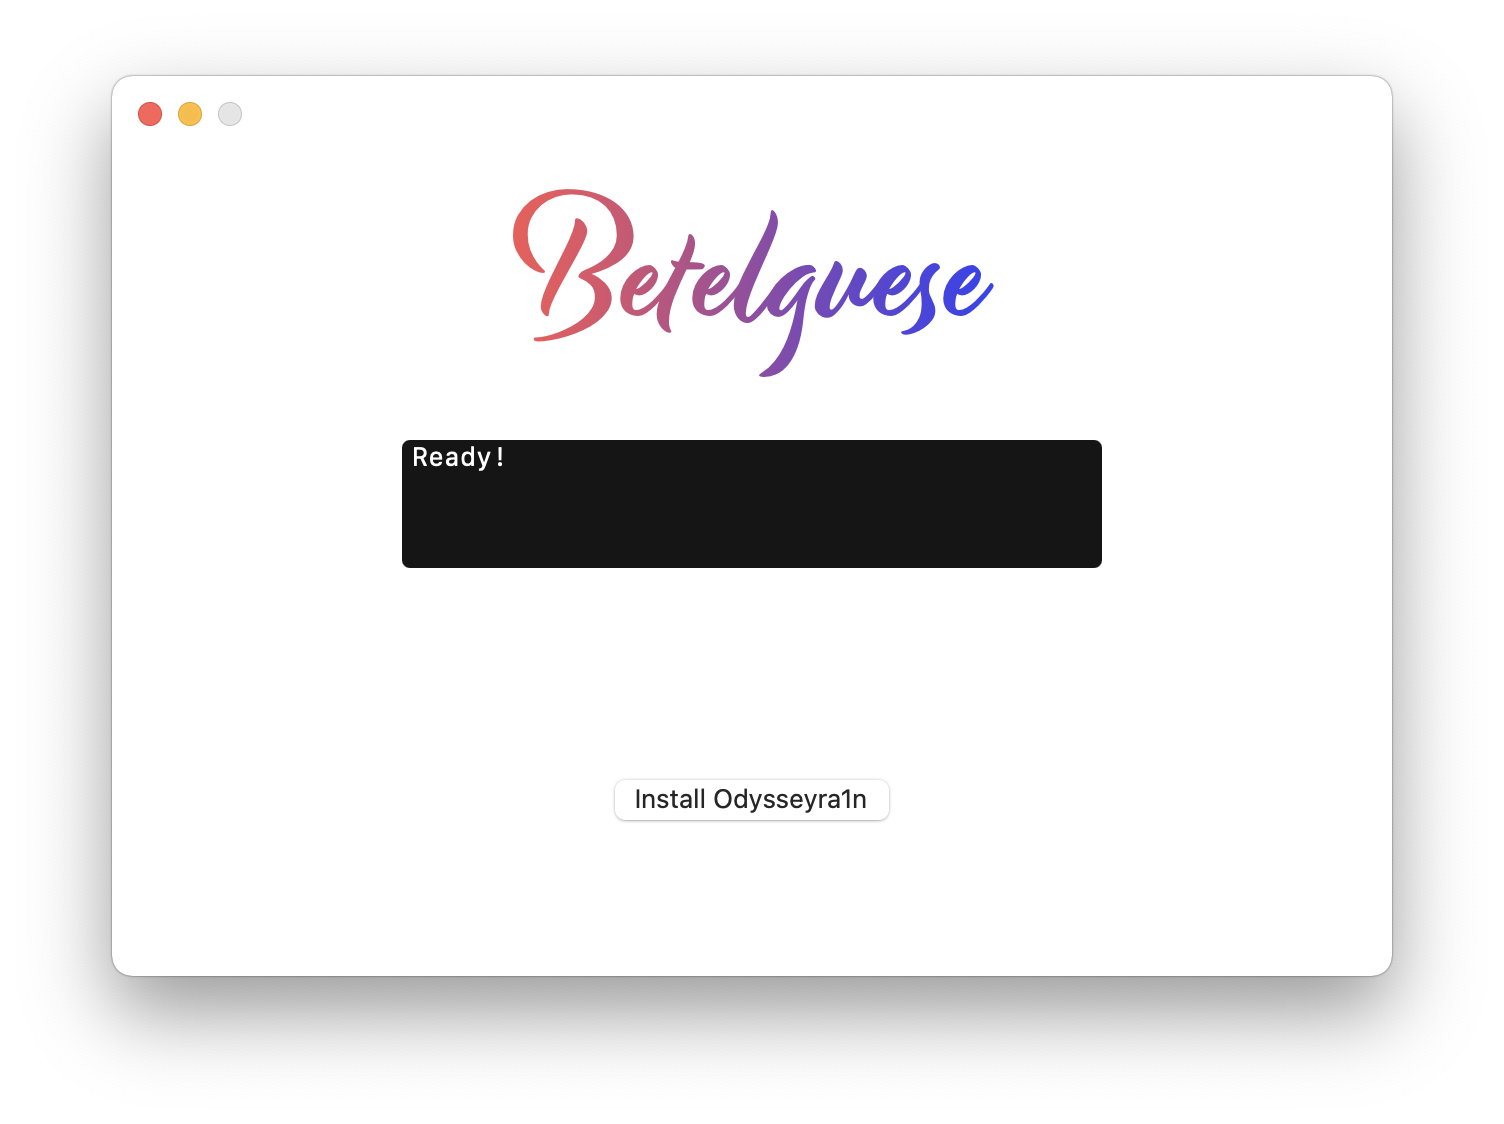
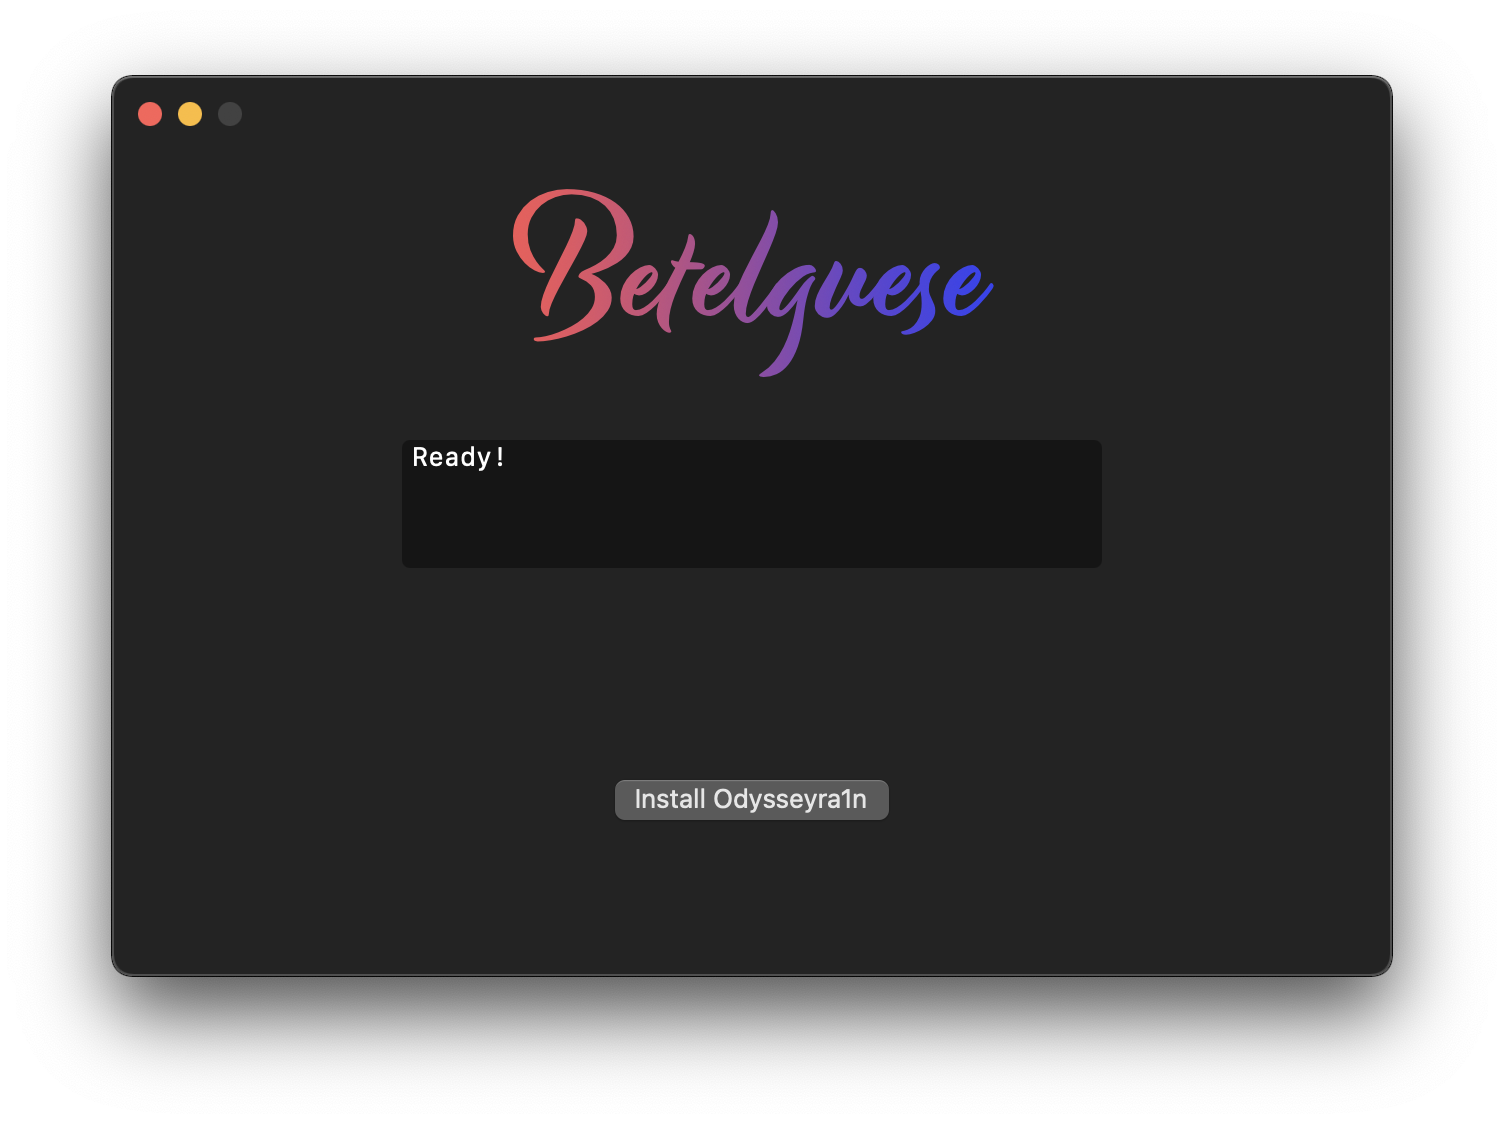
dark mode screenshot, better README

diff --git a/README.md b/README.md
@@ -1,42 +1,44 @@
-<center>
-  <a href="#"><img src="Assets/readme banner.png" alt="Betelguese"></a>
-  <br/>
-  <h3 align="center">by @23Aaron_ & @hbkirb</h3>
-</center>
+<p align="center">
+    <img align=center src="assets/banner.png" alt="Betelguese Logo" /></br>
+</p>
 
-<a href="#"><img src="Assets/coloured line.png" alt=""></a>
+<p align="center">
+    <strong>A GUI for the Odysseyra1n bootstrap installation.</strong></br>
+</p>
 
-<p align="center"><a href="#readme"><img src="Assets/screenshot.png" alt="screenshot"></a></p>
+<p align="center">
+    <a href="#overview">Overview</a> •
+    <a href="https://discord.gg/Udn4kQg">Support Server</a> •
+    <a href="https://choosealicense.com/licenses/gpl-3.0/">License</a> •
+    <a href="#credits">Credits</a>
+</p>
 
-<a href="#readme"><img src="Assets/coloured line.png" alt=""></a>
+<p align="center">
+    <a href="#"><img src="assets/screenshot.png" alt="screenshot" width="650"></a>
+</p>
 
-This repository acts as a GUI for the Odysseyra1n bootstrap installation. Made mostly with Swift.<br/>
-**To install**, simply run `brew install betelguese` if you use brew or download the latest release from [here](https://github.com/23Aaron/Betelguese/releases), and just open!<br/>
 
-<a href="#readme"><img src="Assets/coloured line.png" alt=""></a>
 
+## Overview
+<a href="#"><img src="assets/separator.png" alt=""></a>
+
+**To install**, simply run `brew install betelguese` if you use [brew](https://docs.brew.sh/Installation) or download the [latest release](https://github.com/23Aaron/Betelguese/releases), and just open!<br/>
 **Before running the GUI, make sure you jailbreak with checkra1n beforehand.**<br/>
-**After you run the GUI, make sure to install Rocketboostrap and Preferenceloader before anything else.**<br/>
+**After you run the GUI, make sure to install Rocketbootstrap and Preferenceloader before anything else.**<br/>
 libhooker installation and activation is automatically handled.<br/>
 Compatibility is with every device that checkra1n is compatible with as this is a bootstrap installed over checkra1n's.<br/>
 
-<a href="#readme"><img src="Assets/coloured line.png" alt=""></a>
-
 Because of Procursus, you are now able to have support for **all four main package managers natively (for the first time)**.<br/>
-Sileo (**Preinstalled**), Cydia (*on the Procursus Repo, forked by Kronos*), Zebra, and Installer.<br/>
+Sileo (**Preinstalled**), Cydia (*on the Procursus Repo, forked by Kronos*), Zebra (available on Procursus), and Installer.<br/>
 
 It's further to note that Procursus is also maintained **by the community** with its build system by [@Diatrus](https://twitter.com/Diatrus) & [@hbkirb](https://twitter.com/hbkirb).<br/>
 Documentation for further contribution is available here: [Procursus](https://github.com/ProcursusTeam/Procursus)
 
-<a href="#readme"><img src="Assets/coloured line.png" alt=""></a>
 
-### Credits
+## Credits
+<a href="#"><img src="assets/separator.png" alt=""></a>
+
 Odyssey Repo Maintained by: [@CStar_OW](https://twitter.com/CStar_OW)<br/>
-Procursus Repo Maintained by: [@Diatrus](https://twitter.com/Diatrus)<br/>
-Betelguese by: [@23Aaron_](https://twitter.com/23Aaron_) & [@hbkirb](https://twitter.com/hbkirb)<br/>
-README Dev: [@qdxHimself](https://twitter.com/qdxHimself)
-
-<a href="#readme"><img src="Assets/coloured line.png" alt=""></a>
-
-### License
-This project is licensed under GNU GPLv3.0, read more about it [here](https://choosealicense.com/licenses/gpl-3.0/).
+Procursus Repo Maintained by: [@Diatrus](https://twitter.com/Diatrus) & the Community<br/>
+README Dev: [revisitable](https://github.com/revisitable)
+###### Made by [23Aaron](https://github.com/23Aaron) & [Kirb](https://github.com/kirb)
